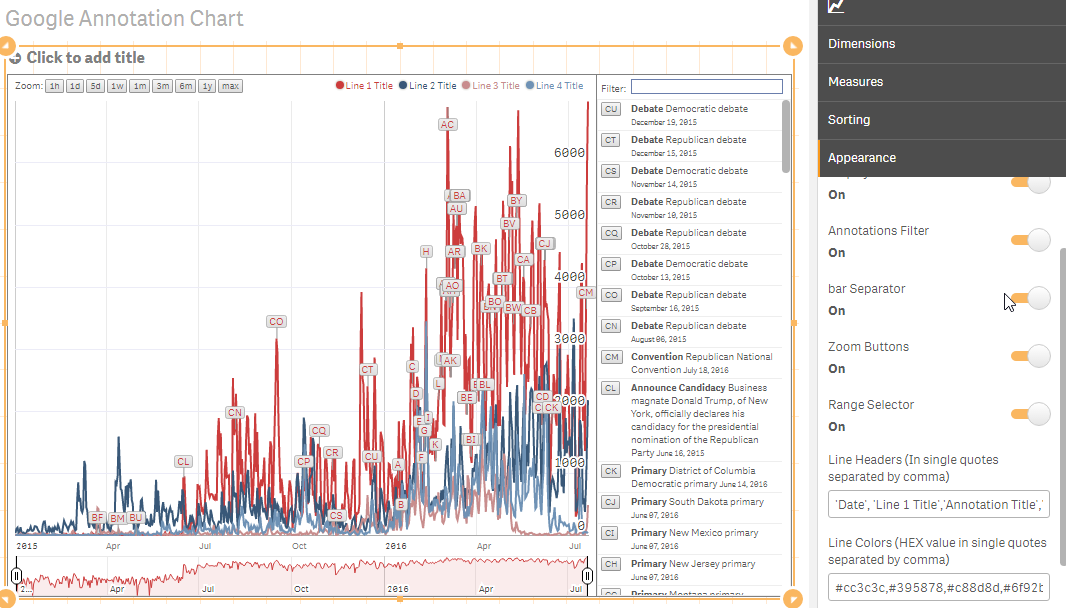
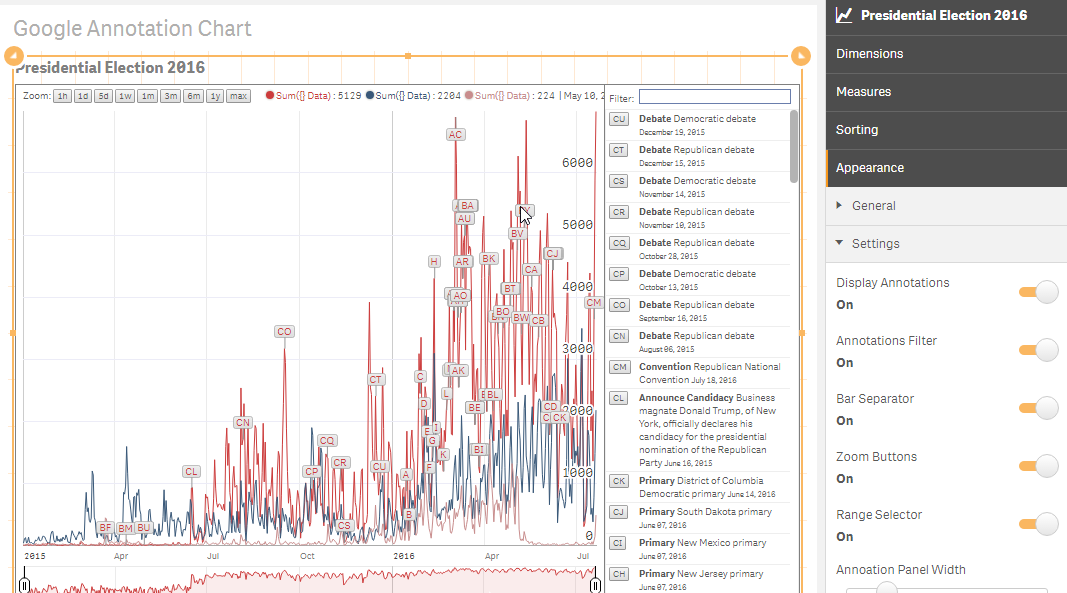
Annotation Title fixes

Changed region(s): [[0.0, 0.0, 1.0, 1.0], [0.9287, 0.3642, 0.9597, 0.3946]]

diff --git a/GoogleAnnotationChart.js b/GoogleAnnotationChart.js
@@ -218,9 +218,6 @@ define( [
 						vars.data[i][3].qNum, 
 						(vars.data[i][1].qText!=='-') ? vars.data[i][1].qText : null, 
 						(vars.data[i][2].qText!=='-') ? vars.data[i][2].qText : null, 
-						// vars.data[i][4].qNum, 
-						// vars.data[i][5].qNum, 
-						// vars.data[i][6].qNum
 					]
 					if (vars.data[i][4]) {
 						row.push(vars.data[i][4].qNum)
